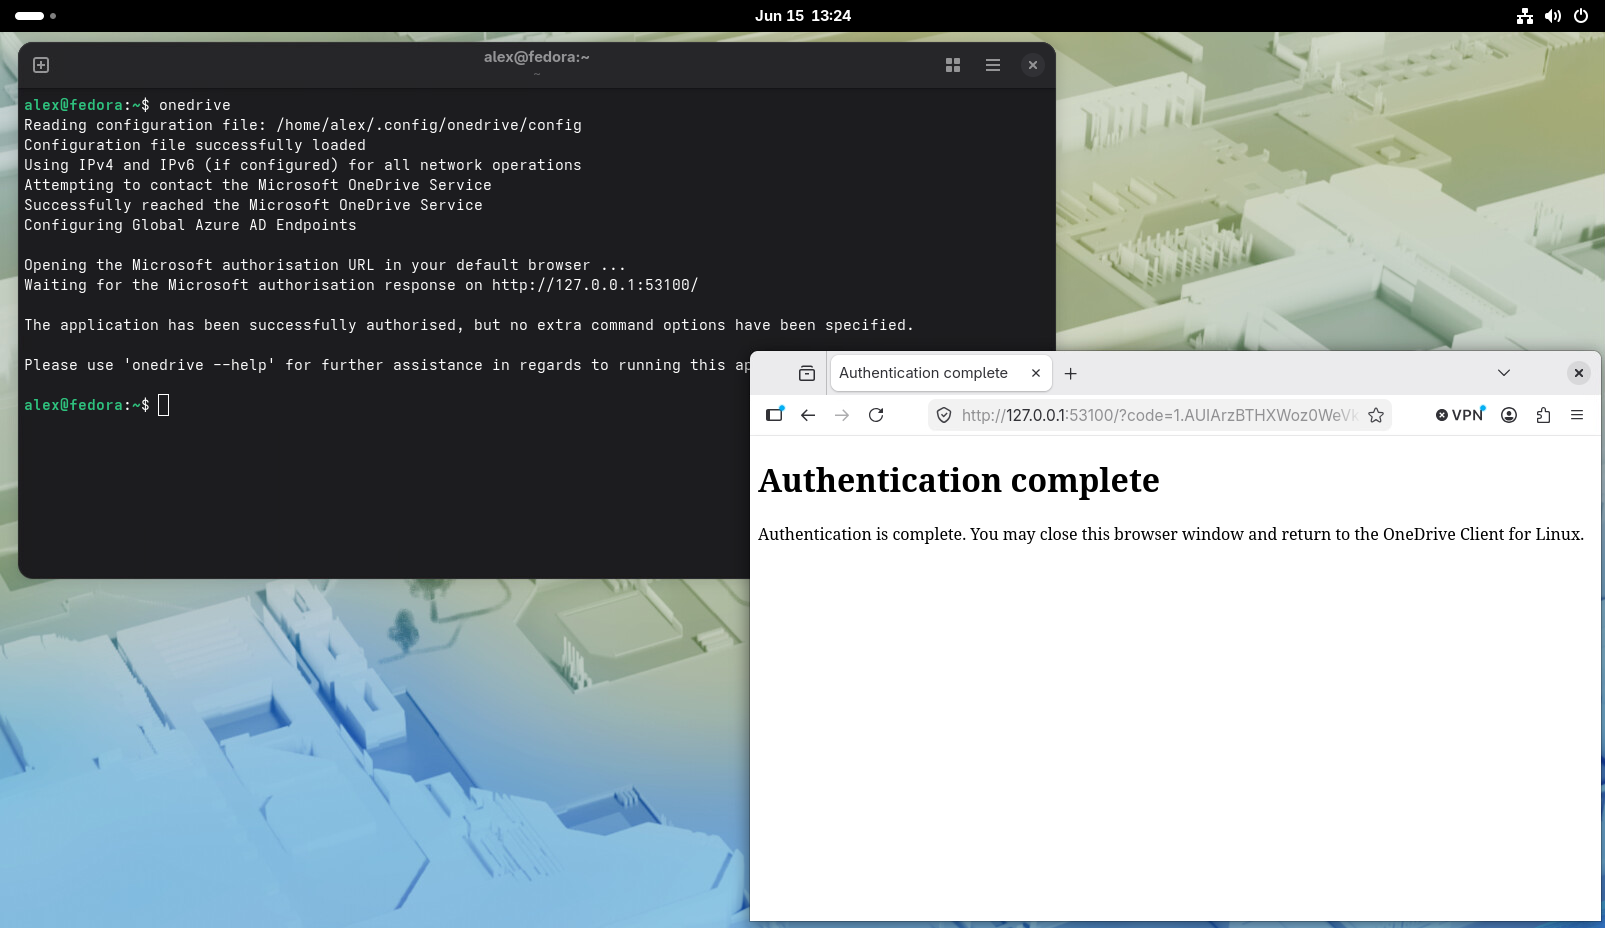
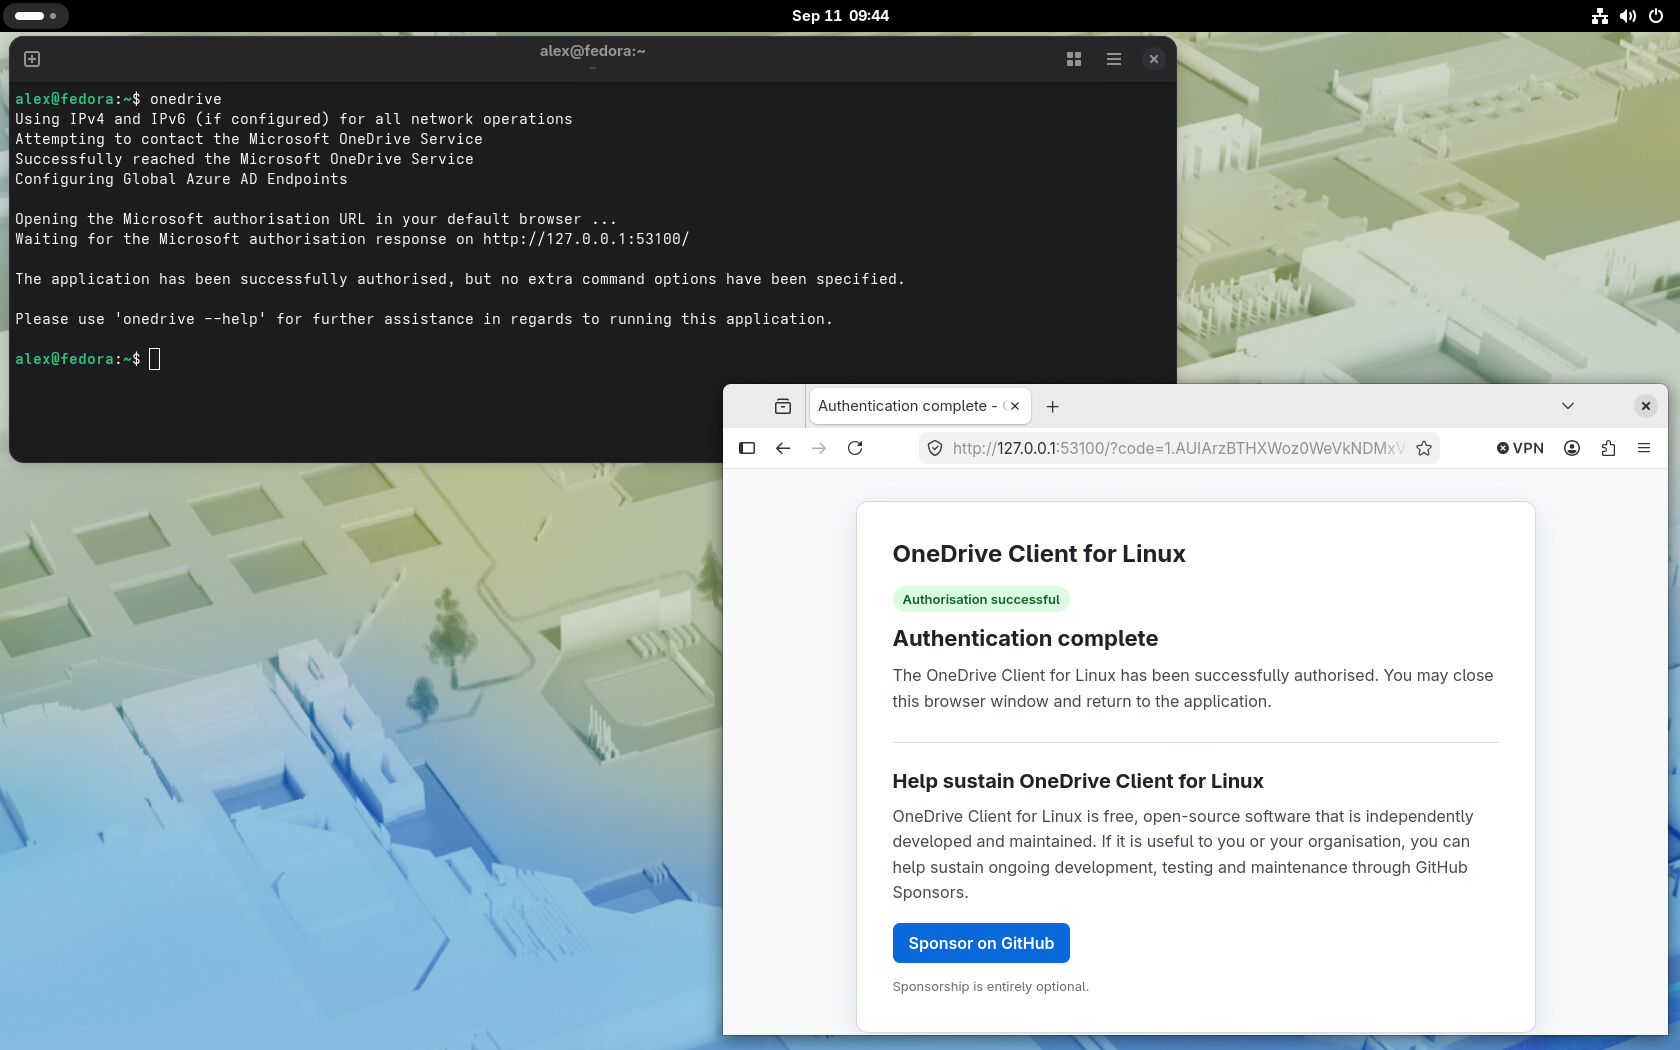
Add project sponsorship visibility to initial graphical authentication (#3867)
## Summary

This PR adds restrained GitHub Sponsors visibility to the OneDrive Client for Linux while deliberately avoiding recurring or intrusive sponsorship messaging.

Following a successful **initial graphical authentication**, the browser completion page now includes an optional invitation to help sustain the project through GitHub Sponsors.

The sponsorship message is not displayed during `--reauth`, authentication failures, application startup, monitor startup, normal synchronisation activity, terminal output or desktop notifications.

## Changes

- Enhances the graphical authentication completion page with a clearer responsive layout and application identity.
- Displays the sponsorship section only after successful initial graphical authentication.
- Does not display sponsorship content during explicit `--reauth`.
- Adds an attributable GitHub Sponsors link using GitHub Sponsors campaign metadata.
- Adds passive sponsorship information to the project README and graphical-authentication documentation.
- Adds browser response protections including `Referrer-Policy: no-referrer`, `Cache-Control: no-store`, a restrictive Content Security Policy and `X-Content-Type-Options: nosniff`.
- Does not add application telemetry, click tracking or any new configuration option.

## Sponsorship Behaviour

The graphical authentication page displays:

> Help sustain OneDrive Client for Linux
[…]

diff --git a/readme.md b/readme.md
@@ -9,7 +9,7 @@
 
 [![E2E Testing - Master Status](https://github.com/abraunegg/onedrive/actions/workflows/e2e-master-status.yaml/badge.svg?branch=master)](https://github.com/abraunegg/onedrive/blob/master/docs/end_to_end_testing.md)
 
-A fully featured, free, and actively maintained Microsoft OneDrive client that seamlessly supports OneDrive Personal, OneDrive for Business, Microsoft 365 (formerly Office 365), and SharePoint document libraries.
+A fully featured, free, open-source and actively maintained Microsoft OneDrive client that seamlessly supports OneDrive Personal, OneDrive for Business, Microsoft 365 (formerly Office 365), and SharePoint document libraries.
 
 Designed for maximum flexibility and reliability, this powerful and highly configurable client works across all major Linux distributions, FreeBSD and OpenBSD. It can also be deployed in containerised environments using Docker or Podman. Supporting both one-way and two-way synchronisation modes, the client provides secure and efficient file syncing with Microsoft OneDrive services — tailored to suit both desktop and server environments.
 
@@ -22,6 +22,14 @@ The original [skilion repository](https://github.com/skilion/onedrive) was forma
 Under the terms of the GNU General Public License (GPL), forking and continuing development of open source software is fully permitted — provided that derivative works retain the same license. This client complies with the original GPLv3 licensing, ensuring the same freedoms granted by the original project remain intact.
 
 Since forking in early 2018, this client has evolved into a clean re-imagining of the original codebase, resolving long-standing bugs and adding extensive new functionality to better support both personal and enterprise use cases to interact with Microsoft OneDrive from Linux, FreeBSD and OpenBSD platforms.
+
+
+## Help Sustain OneDrive Client for Linux
+OneDrive Client for Linux is free, open-source software that is independently developed and maintained.
+
+If the client is useful to you or your organisation, you can help sustain ongoing development, compatibility work, testing across supported operating systems and Microsoft OneDrive account types, and long-term project maintenance through [GitHub Sponsors](https://github.com/sponsors/abraunegg?metadata_campaign=onedrive-sponsorship&metadata_source=github&metadata_content=readme).
+
+Sponsorship is entirely optional and does not alter access to the software, project documentation, community support, or the ability to report issues and contribute to the project.
 
 
 ## Features

diff --git a/docs/usage.md b/docs/usage.md
@@ -399,6 +399,8 @@ If the browser configured by `BROWSER` cannot be launched, the application falls
 
 This local listener is only used during the authentication process. It binds only to the loopback interface, does not require any inbound firewall changes, and is closed once authentication has completed or failed.
 
+Following successful **initial** graphical authentication, the completion page also displays an optional **Help sustain OneDrive Client for Linux** section with a link to support ongoing development, testing and maintenance through [GitHub Sponsors](https://github.com/sponsors/abraunegg?metadata_campaign=onedrive-sponsorship&metadata_source=github&metadata_content=usage-auth). Sponsorship is entirely optional. This section is not displayed during `--reauth`, is not shown as a desktop notification, and is not added to normal terminal or synchronisation output.
+
 **Example Terminal Session within Graphical Desktop session:**
 ```text
 user@hostname:~$ onedrive
@@ -419,6 +421,8 @@ user@hostname:~$
 ```
 
 **Graphical Desktop OAuth2 Authentication Process Illustrated:**
+
+The successful initial-authentication examples below include the optional project sponsorship section described above.
 
 Fedora graphical authentication example:
 
